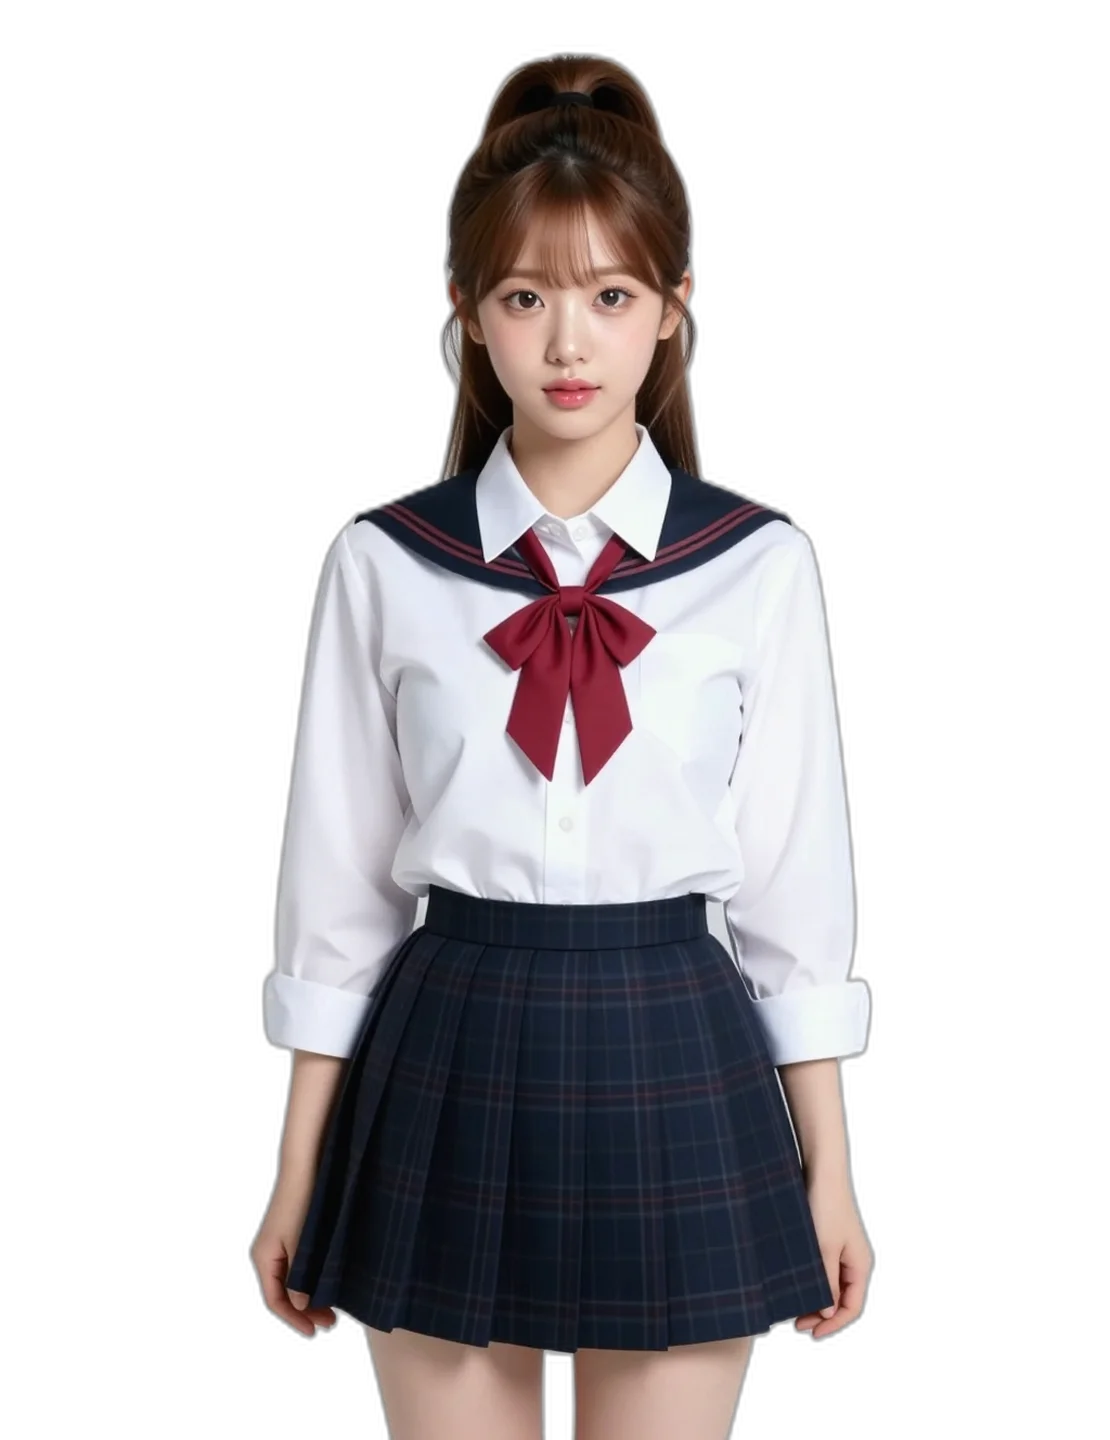
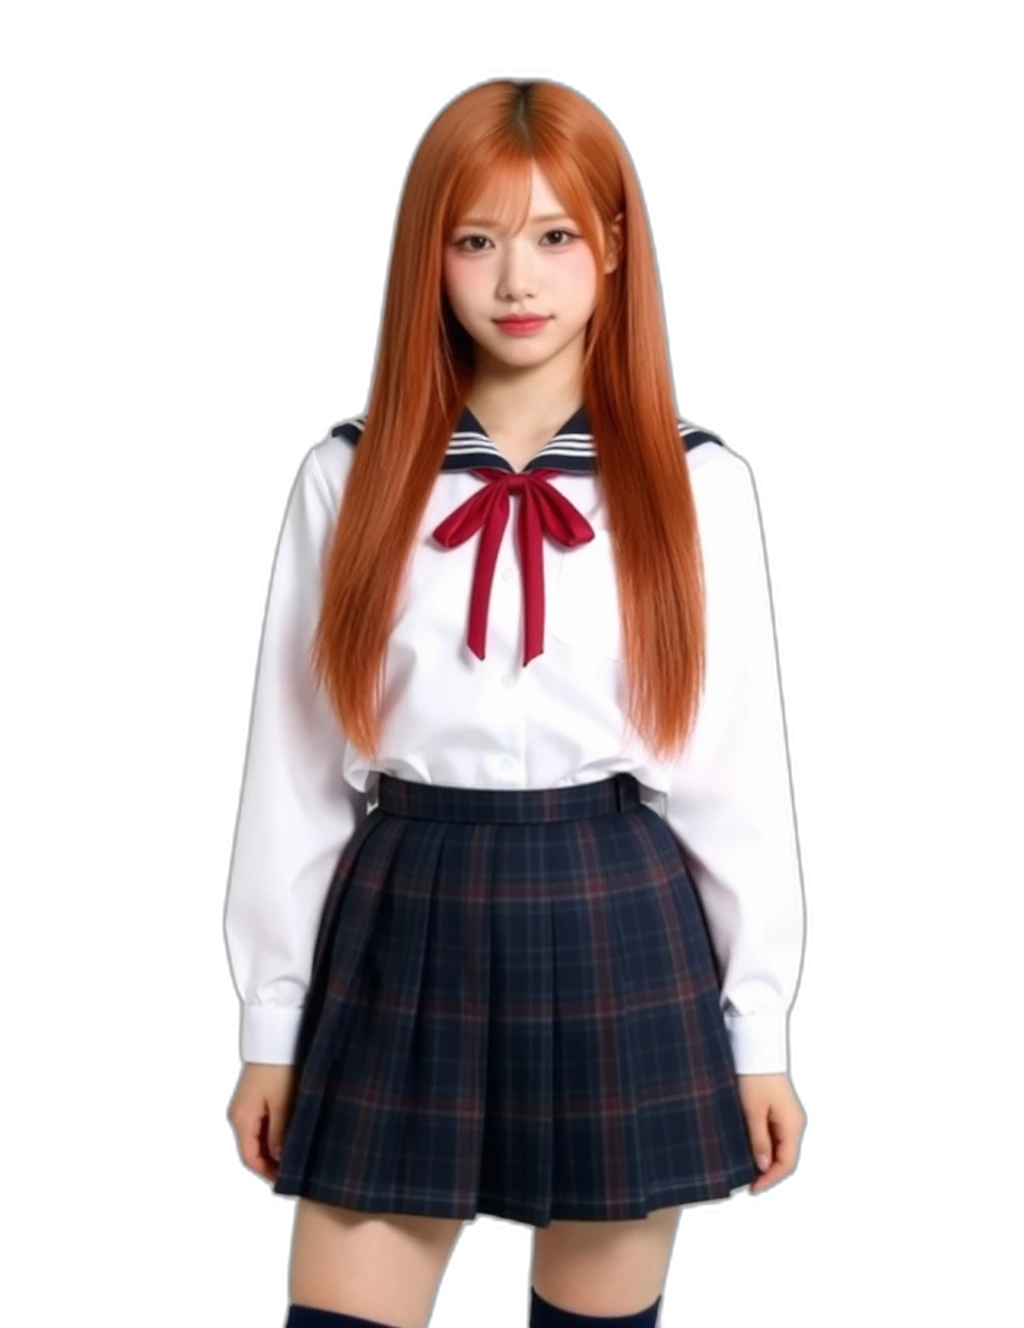
시아 전용 LoRA 적용 · 배경 4종(병원 포함) · 기자 얼굴 (v166)
- 시아 LoRA 학습 완주(12장/3000스텝/3h07m). 스텝 스윕 결과 3000 최종본 채택
  (수치 최고는 2750이었으나 무대 메이크업 과적합 — 홍조가 전 표정에 깔림)
- 시아 DEFS: base → zit_siahface 0.9, desc 단순화(LoRA 얼굴 잠금 규칙)
  헤어 변경: 애쉬브라운 하이포니테일 → 오렌지 롱헤어+시스루뱅
- 시아 12장 재생성(표정 6 + 무대의상 6), 얼굴 일관성 전 컷 유지
- 배경 4종: agency·pressroom·invest·hospital(1인 병실). 병원은 컨디션 25 미만 트리거
- 기자 문지효 얼굴 생성(woman041, 5인과 다른 얼굴)

Changed region(s): [[0.2188, 0.0309, 0.8125, 1.0], [0.5938, 0.8336, 0.625, 0.8645]]

diff --git a/novel.html b/novel.html
@@ -2035,7 +2035,7 @@
               title="일정 보드" aria-label="일정 보드">
         <svg viewBox="0 0 24 24"><rect x="4" y="4" width="16" height="17" rx="2"/><path d="M9 3h6v3H9z"/><path d="M8 11h8M8 15h5"/></svg>
         <i class="badge"></i></button>
-      <span id="titleText">낙인의 검 <span style="font-size:0.7em;opacity:0.6">v165</span></span>
+      <span id="titleText">낙인의 검 <span style="font-size:0.7em;opacity:0.6">v166</span></span>
     </div>
     <div class="top-btns">
       <button class="top-btn" id="autoBtn" onclick="toggleAuto()">AUTO</button>
@@ -4644,7 +4644,8 @@ const IDOL_SIM = {
   BG_LOC: { practice:'연습실', office:'블루밍 엔터 사무실', studio:'대표 작업실', waitroom:'방송국 대기실',
             stage:'음악방송 스튜디오', van:'이동 중인 밴', event:'행사장', dorm:'숙소',
             rooftop:'건물 옥상', home:'대표의 집', street:'거리',
-            agency:'광고 대행사 회의실', pressroom:'연예 매체 사무실', invest:'투자사 라운지' },
+            agency:'광고 대행사 회의실', pressroom:'연예 매체 사무실', invest:'투자사 라운지',
+            hospital:'병원 1인 병실' },
   // 그 sim이 벌어지는 장소 키를 돌려준다(없으면 null = 장소 유지)
   placeOf(sim){
     const S = IDOL_SIM; if (!sim || !sim.action) return null;
@@ -5639,6 +5640,14 @@ const IDOL_SIM = {
         s += `  · [${it.cat}] ${it.head}${it.eff ? ` → ${it.eff}` : ''}
 `; });
     }
+    // ★병원 — 컨디션·멘탈이 바닥난 멤버가 있으면 그 장면을 병원에서 풀 수 있다(2026-07-29 배경 추가).
+    {
+      const crit = Object.entries(d.mem).filter(([,m]) => m.cond < 25 || m.mind < 25)
+        .map(([i]) => (IDOL_CHARACTERS[i]||{}).name || i);
+      if (crit.length) s += `★★${crit.join('·')} 컨디션/멘탈이 한계다 — 쓰러지거나 병원에 실려가는 전개가 가능하다`
+        + `(배경 hospital = 병원 1인 병실). 억지로 굴리면 그 대가가 장면으로 온다.
+`;
+    }
     // ★문지효 기자 등장 — 계기가 있을 때만. 없으면 부르지 마라(아무 때나 나오면 값이 떨어진다).
     if (d.pressCall) {
       const w = d.pressCall;
@@ -6180,6 +6189,7 @@ const BUILTIN_STORIES = {
       agency:     { url: 'sd_samples/backgrounds/idol/agency.webp',     label: '광고 대행사 회의실' },
       pressroom:  { url: 'sd_samples/backgrounds/idol/pressroom.webp',  label: '연예 매체 사무실' },
       invest:     { url: 'sd_samples/backgrounds/idol/invest.webp',     label: '투자사 라운지' },
+      hospital:   { url: 'sd_samples/backgrounds/idol/hospital.webp',   label: '병원 1인 병실' },
     },
     startBg: 'practice',
     startPrompt: n => `게임 시작. 첫 장면을 보여줘. 4월 첫째 주 월요일 오전, 블루밍 엔터 지하 연습실. ${n}이(가) 대표로서 처음 이 다섯을 마주하는 회의 장면 — 차영석 실장이 잔고와 대출 만기를 있는 그대로 브리핑하고(이 팀에 남은 시간이 얼마 없다는 것), 멤버 다섯이 각자의 방식으로 반응한다. 서우는 분위기를 풀려 장난치고, 미유는 눈이 먼저 붉어지고, 하람은 상황을 정확히 짚고, 소예는 소매를 만지작거리며 조심스레 한마디 하고, 시아는 제일 늦게 그러나 제일 단단하게 말한다. 마지막에 실장이 이번 주에 무엇을 할지 대표에게 묻는다.`,
